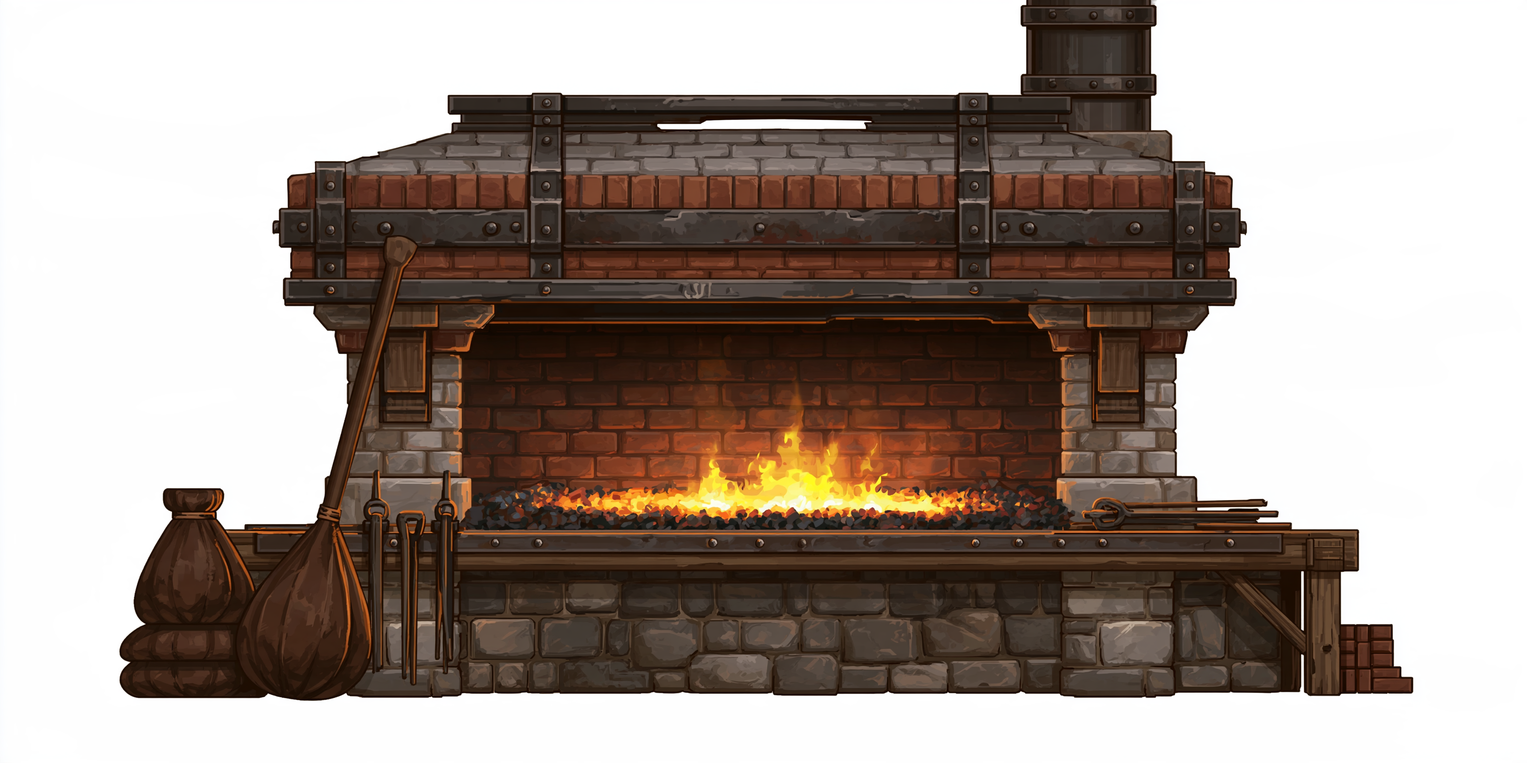
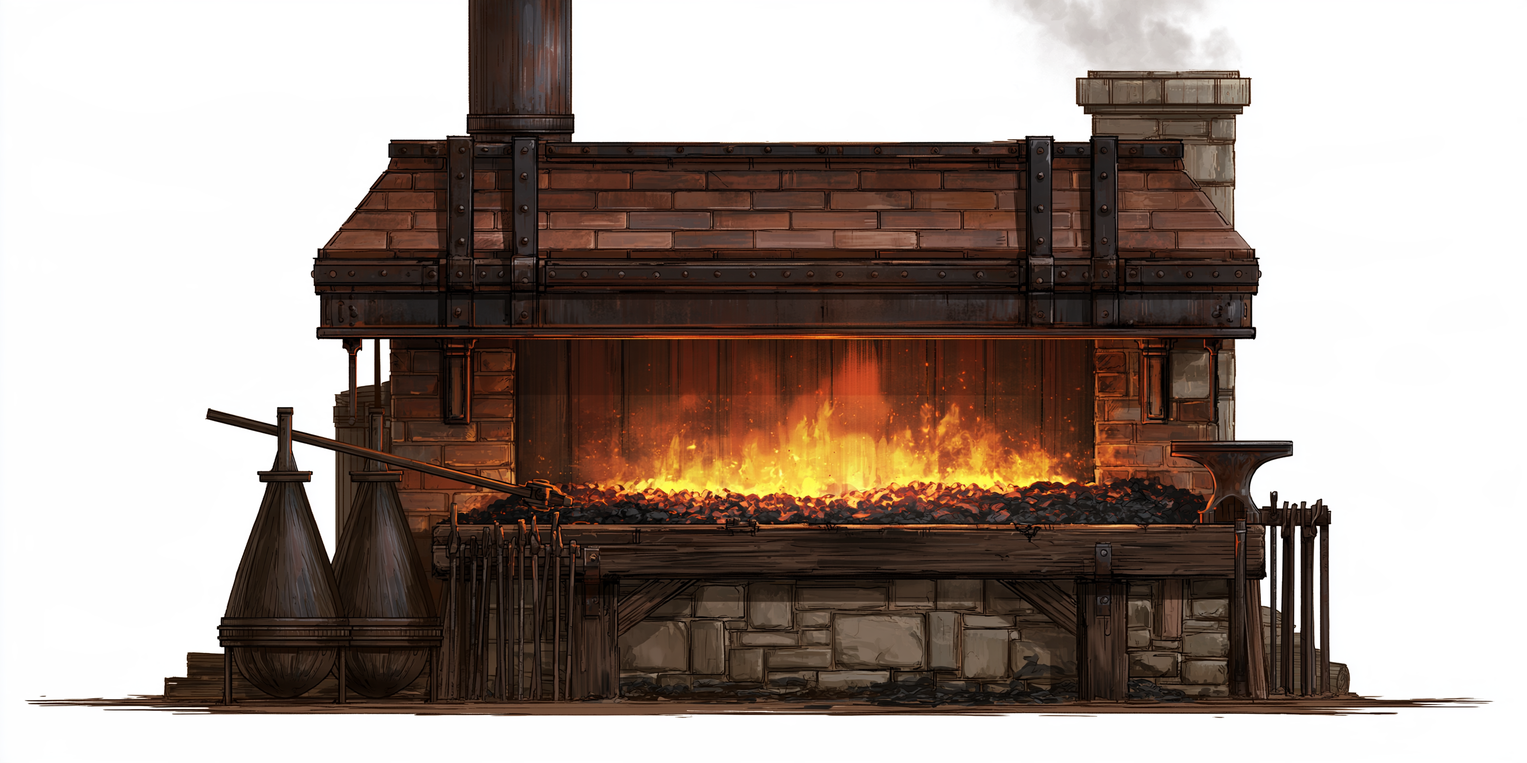
Esse Stufe 3 neu, Siemens-Ofen, Schwanzhammer-Teile (Midjourney); Balancing nachgestimmt
Alle sechs Essen in Frontalansicht. Gemalten Rauch schneidet der Import weg.
Wasserrad, Hammerbalken, Gestell und Schwungrad neu; Lager, Kopf und
Gestell-Lager misst der Import (scripts/user_machine_meta.gd).
Balancing mit Einrichtung nachgestimmt: 13,51 h, alle Epochen im Ziel.

Claude-Session: https://claude.ai/code/session_01XXDPznYwptFz8B3GCqsTxL

diff --git a/tools/art/import_user_art.py b/tools/art/import_user_art.py
@@ -248,29 +248,66 @@ def main():
         h = int(round(b.width * 500 / 1024))
         top = max(0, (b.height - h) // 2)
         b.crop((0, top, b.width, top + h)).resize((1024, 500), Image.LANCZOS).save(os.path.join(store, "feature_graphic_1024x500.png"))
-    # 21 Maschinen in Einzelteilen (weiß): Löcher (Speichen, Gitter, Lager) freistellen
+    # 21 Maschinen in Einzelteilen (weiß): Löcher (Speichen, Gitter, Lager) freistellen;
+    # Lager, Hammerkopf und Gestell-Lager werden vermessen (scripts/user_machine_meta.gd)
     mdir = os.path.join(SRC, "machines")
+    mmeta = {}
     if os.path.isdir(mdir):
         for fn in sorted(os.listdir(mdir)):
             base, ext = os.path.splitext(fn)
             if ext.lower() not in (".webp", ".png", ".jpg", ".jpeg"):
                 continue
-            a = np.asarray(Image.open(os.path.join(mdir, fn)).convert("RGB")).astype(np.float32)
+            a = np.asarray(Image.open(os.path.join(mdir, fn)).convert("RGB")).astype(np.float32).copy()
             if base == "engine_body":
                 # eingemalten Balancier entfernen (das Spiel lässt einen eigenen wippen)
                 a[:115, 680:965] = 255.0
             sat = a.max(axis=2) - a.min(axis=2)
             white = (a.min(axis=2) > 222) & (sat < 22)
             bg = flood_bg(white) | enclosed(white, 150)
-            img = to_rgba(a, bg.astype(np.float32))
+            solid = ~bg
+            lab, n = ndimage.label(solid)
+            if n > 1:
+                sizes = ndimage.sum(solid, lab, range(1, n + 1))
+                solid = np.isin(lab, [k + 1 for k, sz in enumerate(sizes) if sz >= 0.02 * sizes.max()])
+            img = to_rgba(a, (~solid).astype(np.float32))
             if base in ("water_wheel", "flywheel"):
-                # Drehteile: quadratisch um die Nabe (Bildmitte des Originals), damit sie sauber rotieren
-                c = img.width // 2
-                r = int(max(abs(np.array(img.getbbox()) - np.array([c, c, c, c]))))
-                img = img.crop((c - r, c - r, c + r, c + r))
+                # Drehteile: quadratisch um die Nabe (Mitte des Umrisses), damit sie sauber rotieren
+                x0, y0, x1, y1 = img.getbbox()
+                cx, cy = (x0 + x1) // 2, (y0 + y1) // 2
+                r = max(x1 - cx, cx - x0, y1 - cy, cy - y0)
+                img = img.crop((cx - r, cy - r, cx + r, cy + r))
                 save(img.resize((400, 400), Image.LANCZOS), "machine_" + base + ".png")
-            else:
-                save(img, "machine_" + base + ".png", max_w=700)
+                continue
+            img = save(img, "machine_" + base + ".png", max_w=700)
+            al = np.asarray(img)[..., 3] > 128
+            if base == "helve_beam":
+                cols = np.where(al.any(axis=0))[0]
+                top = np.array([np.argmax(al[:, x]) if al[:, x].any() else 0 for x in range(img.width)])
+                bot = np.array([img.height - 1 - np.argmax(al[::-1, x]) if al[:, x].any() else 0 for x in range(img.width)])
+                thick = np.where(al.any(axis=0), bot - top, 0)
+                med = np.median(thick[cols])
+                head = [x for x in cols if thick[x] > 1.6 * med and x > img.width * 0.6]
+                hx = int(np.mean(head)) if head else int(img.width * 0.92)
+                hy = int(max(bot[x] for x in head)) if head else int(img.height * 0.9)
+                body = [x for x in cols if x < img.width * 0.6]
+                axis_y = int(np.median([(top[x] + bot[x]) / 2 for x in body]))
+                boss = [x for x in body if thick[x] > 1.25 * med]
+                px = int(np.mean(boss)) if boss else int(cols[0] + img.width * 0.06)
+                mmeta["BEAM_PIVOT"] = (px, axis_y)
+                mmeta["BEAM_HEAD"] = (hx, hy)
+            elif base == "helve_frame":
+                ys = np.where(al.any(axis=1))[0]
+                ty = int(ys[0])
+                xs = np.where(al[ty:ty + max(4, img.height // 40)].any(axis=0))[0]
+                mmeta["FRAME_BEARING"] = (int(np.median(xs)), ty + 6)
+                mmeta["FRAME_HEIGHT"] = (img.width, img.height)
+    lines = ["## Automatisch erzeugt von tools/art/import_user_art.py – nicht von Hand ändern.",
+             "## Schwanzhammer: Lagerloch und Hammerkopf (Unterkante) im Balken, Lager oben auf dem Gestell, Größe des Gestells.", "",
+             "const META := {"]
+    for k, v in mmeta.items():
+        lines.append(f'\t"{k}": Vector2{v},')
+    lines.append("}")
+    open(os.path.join(ROOT, "scripts", "user_machine_meta.gd"), "w", encoding="utf-8").write("\n".join(lines) + "\n")
     derived()
     print("fertig:", sorted(os.listdir(OUT)))
 
@@ -352,6 +389,12 @@ FORGE_IDS = ["forge_clay", "forge_brick", "forge_double_bellows", "forge_coke", 
 FORGE_W = 920          # Breite im Spiel (Bühnen-Pixel)
 FORGE_CENTER_X = 420   # Mitte der Esse im Koordinatensystem der Essen-Ansicht (wie bisher)
 FORGE_TOP_Y = 118
+# Rauch über dem Schornstein, den Midjourney trotz „no smoke“ malt: Rechtecke (x0, y0, x1, y1) im Original
+# werden vor dem Freistellen weiß gefüllt (das Spiel erzeugt eigenen Rauch)
+FORGE_SMOKE = {
+    "forge_double_bellows": [(1950, 0, 3104, 140)],
+    "forge_siemens": [(1950, 0, 2230, 118), (2230, 0, 3104, 232)],
+}
 
 
 def forge_import():
@@ -363,7 +406,9 @@ def forge_import():
         path = next((os.path.join(fdir, fid + e) for e in (".png", ".webp", ".jpg") if os.path.exists(os.path.join(fdir, fid + e))), None)
         if path is None:
             continue
-        a = np.asarray(Image.open(path).convert("RGB")).astype(np.float32)
+        a = np.asarray(Image.open(path).convert("RGB")).astype(np.float32).copy()
+        for x0, y0, x1, y1 in FORGE_SMOKE.get(fid, []):
+            a[y0:y1, x0:x1] = 255.0
         sat = a.max(axis=2) - a.min(axis=2)
         white = (a.min(axis=2) > 215) & (sat < 28)
         bg = flood_bg(white) | enclosed(white, 4000)

diff --git a/tools/content/gen_prompt_book.py b/tools/content/gen_prompt_book.py
@@ -84,6 +84,10 @@ LESSONS = [
      "Doppelblasebalg ausdrücklich: „two identical teardrop bellows stacked one above the other, one lever“; Glutbett „wide, about two thirds of the width“; Glutbett, Schornstein und Ursprung misst jetzt der Import selbst"),
     ("20.11.", "Hämmer, Amboss (Raw)", "Formen und Ansicht genau richtig, aber fotorealistische 3D-Renderings statt handgemalt mit Tuschekontur – der Raw-Modus überstimmt die Stilangabe; Amboss mit Horn nach links",
      "Raw nur noch, wenn die Form nicht stimmt; sonst Standard mit Stil-Referenz (ein Hintergrund oder eine Esse); `--no photo, 3d render`; Horn-Richtung gleicht der Import aus (spiegeln); Griff, Bahn und Ambossbahn misst der Import selbst"),
+    ("20.11.", "Essen", "Esse Stufe 3 (neu) und Siemens-Ofen: Inhalt gelungen (zwei Bälge mit Hebel bzw. genieteter Gasofen), aber trotz `--no smoke` Rauch über dem Schornstein",
+     "„the chimney top is clean (no smoke)“; den Rest schneidet der Import weg (`FORGE_SMOKE`), das Spiel erzeugt eigenen Rauch"),
+    ("20.11.", "Maschinenteile", "neuer Hammerbalken mit Lager am Ende (statt bei einem Drittel), neues Gestell mit mittigem Lagerbock",
+     "historisch richtig (Brust-Schwanzhammer); Lager, Hammerkopf und Gestell-Lager misst jetzt der Import, das Spiel skaliert passend – Prompt bleibt"),
 ]
 GLOBAL_NEG = ["text", "numbers", "watermark"]
 ISOLATED_NEG = ["border", "shadow", "photo", "3d render"]
@@ -277,7 +281,7 @@ BELLOWS = "a teardrop-shaped leather bellows with wooden boards on a stand (no c
 
 FORGE_TAIL = ("front view from slightly above (no perspective), wide glowing coal bed, a flat band across about two thirds of the width, "
               "hood and chimney centred and fully visible, level bottom edge (no floor), hand-painted 2D game art, dark ink outlines, "
-              "nothing in front (no smoke, no flames, no people), isolated on pure flat white background, wide 2:1")
+              "nothing in front, the chimney top is clean (no smoke, no flames, no people), isolated on pure flat white background, wide 2:1")
 FORGES = [
     ("forge_clay", "Lehm-Esse mit Handblasebalg (Stufe 1, Epoche 1)", "a small rustic early-18th-century village forge, " + OPEN_HEARTH + ", built of clay and rough fieldstones, a simple clay-plastered hood with a short chimney, on the left " + BELLOWS + ", orange glowing charcoal fire"),
     ("forge_brick", "Ziegel-Esse (Stufe 2, Epoche 2)", "a smith's forge of the 1720s, " + OPEN_HEARTH + ", built of red brick bound with iron straps, a brick hood and a square brick chimney, on the left " + BELLOWS + ", bright orange coal fire"),

diff --git a/assets/source/user_art/PROMPTS_Hochformat.md b/assets/source/user_art/PROMPTS_Hochformat.md
@@ -15,18 +15,18 @@ Vollständige Liste aller Grafiken mit Prompt und Status. Erzeugt mit `python to
 
 | Status | Anzahl |
 |---|---|
-| ✅ gut (Midjourney) | 19 |
-| 🟠 von Midjourney vorhanden – sollte noch verändert werden | 1 |
-| 🟡 von Gemini vorhanden – durch Midjourney ersetzen | 28 |
-| ⬜ noch nicht vorhanden | 127 |
+| ✅ gut (Midjourney) | 25 |
+| 🟠 von Midjourney vorhanden – sollte noch verändert werden | 0 |
+| 🟡 von Gemini vorhanden – durch Midjourney ersetzen | 24 |
+| ⬜ noch nicht vorhanden | 126 |
 | ⬜ noch nicht vorhanden (optional) | 62 |
 
 | Bereich | ✅ gut | 🟠 ändern | 🟡 Gemini | ⬜ fehlt | ⬜ optional |
 |---|---|---|---|---|---|
 | A · Werkstatt-Hintergründe | 10 | 0 | 0 | 0 | 0 |
-| B · Essen | 4 | 1 | 0 | 1 | 0 |
+| B · Essen | 6 | 0 | 0 | 0 | 0 |
 | C · Amboss und Hämmer | 5 | 0 | 0 | 0 | 0 |
-| D · Maschinen | 0 | 0 | 7 | 3 | 4 |
+| D · Maschinen | 4 | 0 | 3 | 3 | 4 |
 | E · Werkstücke | 0 | 0 | 9 | 72 | 0 |
 | F · Kundenporträts | 0 | 0 | 0 | 0 | 54 |
 | G · Oberfläche, Symbole, Store | 0 | 0 | 12 | 1 | 4 |
@@ -68,6 +68,8 @@ Jede Erkenntnis ist in **alle** betroffenen Prompts eingebaut (gemeinsame Bauste
 | 20.11. | Hintergründe | Lieferung Epoche 3–10: Stimmung und Inhalt gut; aber (a) alle eher dunkel, (b) Epoche 5 und 9 mit gemaltem Feuer in der Wandmitte, (c) Epoche 3 und 7 mit zweitem, großem Aussichtsfenster am rechten Rand (im Hochformat angeschnitten), (d) Kante 56–84 % | „Evening but well lit“; `--no fireplace, flames`; „Through the small window: …“ statt „Window view“, damit die Aussicht im kleinen Fenster links landet; zu tiefe Kante gleicht der Import aus (oben Decke abschneiden, `BG_TOP_CROP`) |
 | 20.11. | Essen | erste Frontalansichten (Stufe 1–5): Aufbau, Blasebalg links und offenes Glutbett gelungen; Stufe 3 zeigt nur einen Blasebalg und einen Sack statt zwei übereinanderliegender Bälge; Stufe 1 hat ein schmales Glutbett (~25 % der Breite) | Doppelblasebalg ausdrücklich: „two identical teardrop bellows stacked one above the other, one lever“; Glutbett „wide, about two thirds of the width“; Glutbett, Schornstein und Ursprung misst jetzt der Import selbst |
 | 20.11. | Hämmer, Amboss (Raw) | Formen und Ansicht genau richtig, aber fotorealistische 3D-Renderings statt handgemalt mit Tuschekontur – der Raw-Modus überstimmt die Stilangabe; Amboss mit Horn nach links | Raw nur noch, wenn die Form nicht stimmt; sonst Standard mit Stil-Referenz (ein Hintergrund oder eine Esse); `--no photo, 3d render`; Horn-Richtung gleicht der Import aus (spiegeln); Griff, Bahn und Ambossbahn misst der Import selbst |
+| 20.11. | Essen | Esse Stufe 3 (neu) und Siemens-Ofen: Inhalt gelungen (zwei Bälge mit Hebel bzw. genieteter Gasofen), aber trotz `--no smoke` Rauch über dem Schornstein | „the chimney top is clean (no smoke)“; den Rest schneidet der Import weg (`FORGE_SMOKE`), das Spiel erzeugt eigenen Rauch |
+| 20.11. | Maschinenteile | neuer Hammerbalken mit Lager am Ende (statt bei einem Drittel), neues Gestell mit mittigem Lagerbock | historisch richtig (Brust-Schwanzhammer); Lager, Hammerkopf und Gestell-Lager misst jetzt der Import, das Spiel skaliert passend – Prompt bleibt |
 
 ## Midjourney-Einstellungen (Version 8.2)
 
@@ -184,44 +186,45 @@ background_10 — Square 2D game background, hand-painted, dark ink outlines. Ev
 Frontal und symmetrisch, leicht von oben: Das Glutbett ist ein waagerechter Streifen über etwa 60 % der Breite, damit die Werkstücke gleichmäßig nebeneinander liegen. Blasebalg bzw. Gebläse immer links. Format 2:1, weißer Grund. Originale nach `assets/source/user_art/forges/<id>.png` – Glutbett, Schornstein und Lage misst der Import selbst.
 
 **forge_clay** – Lehm-Esse mit Handblasebalg (Stufe 1, Epoche 1) · ✅ gut (Midjourney)  
-Regler: **Landscape 2:1** · 99 Wörter  
+Regler: **Landscape 2:1** · 104 Wörter  
 *20.11.: Frontalansicht, offener Herdtisch mit Lehmhaube, Blasebalg links auf Bank. Glutbett schmal (~25 % der Breite) – für einen Platz ausreichend.*
 ```
-forge_clay — 2D game asset, a small rustic early-18th-century village forge, open waist-high hearth table, coals lying openly on top, hood above with a clear gap, built of clay and rough fieldstones, a simple clay-plastered hood with a short chimney, on the left a teardrop-shaped leather bellows with wooden boards on a stand, orange glowing charcoal fire, front view from slightly above, wide glowing coal bed, a flat band across about two thirds of the width, hood and chimney centred and fully visible, level bottom edge, hand-painted 2D game art, dark ink outlines, nothing in front, on pure flat white background --ar 2:1 --no oven, dome, arch over the fire, cannon, perspective, floor, smoke, flames, people, text, numbers, watermark, border, shadow, photo, 3d render
+forge_clay — 2D game asset, a small rustic early-18th-century village forge, open waist-high hearth table, coals lying openly on top, hood above with a clear gap, built of clay and rough fieldstones, a simple clay-plastered hood with a short chimney, on the left a teardrop-shaped leather bellows with wooden boards on a stand, orange glowing charcoal fire, front view from slightly above, wide glowing coal bed, a flat band across about two thirds of the width, hood and chimney centred and fully visible, level bottom edge, hand-painted 2D game art, dark ink outlines, nothing in front, the chimney top is clean, on pure flat white background --ar 2:1 --no oven, dome, arch over the fire, cannon, perspective, floor, smoke, flames, people, text, numbers, watermark, border, shadow, photo, 3d render
 ```
 
 **forge_brick** – Ziegel-Esse (Stufe 2, Epoche 2) · ✅ gut (Midjourney)  
-Regler: **Landscape 2:1** · 101 Wörter  
+Regler: **Landscape 2:1** · 106 Wörter  
 *20.11.: Frontalansicht, Ziegelherd mit Eisenbändern, Schieferdach-Haube, Schornstein rechts; Blasebalg links steht senkrecht statt waagerecht – unkritisch.*
 ```
-forge_brick — 2D game asset, a smith's forge of the 1720s, open waist-high hearth table, coals lying openly on top, hood above with a clear gap, built of red brick bound with iron straps, a brick hood and a square brick chimney, on the left a teardrop-shaped leather bellows with wooden boards on a stand, bright orange coal fire, front view from slightly above, wide glowing coal bed, a flat band across about two thirds of the width, hood and chimney centred and fully visible, level bottom edge, hand-painted 2D game art, dark ink outlines, nothing in front, on pure flat white background --ar 2:1 --no oven, dome, arch over the fire, cannon, perspective, floor, smoke, flames, people, text, numbers, watermark, border, shadow, photo, 3d render
+forge_brick — 2D game asset, a smith's forge of the 1720s, open waist-high hearth table, coals lying openly on top, hood above with a clear gap, built of red brick bound with iron straps, a brick hood and a square brick chimney, on the left a teardrop-shaped leather bellows with wooden boards on a stand, bright orange coal fire, front view from slightly above, wide glowing coal bed, a flat band across about two thirds of the width, hood and chimney centred and fully visible, level bottom edge, hand-painted 2D game art, dark ink outlines, nothing in front, the chimney top is clean, on pure flat white background --ar 2:1 --no oven, dome, arch over the fire, cannon, perspective, floor, smoke, flames, people, text, numbers, watermark, border, shadow, photo, 3d render
 ```
 
-**forge_double_bellows** – Esse mit Doppelblasebalg (Stufe 3, Epoche 3) · 🟠 von Midjourney vorhanden – sollte noch verändert werden  
-Regler: **Landscape 2:1** · 103 Wörter  
-*20.11.: Esse selbst gut (Ziegel/Stein, Eisenbänder), aber links nur ein Blasebalg und ein Sack statt zweier übereinanderliegender Bälge mit Hebel.*
+**forge_double_bellows** – Esse mit Doppelblasebalg (Stufe 3, Epoche 3) · ✅ gut (Midjourney)  
+Regler: **Landscape 2:1** · 108 Wörter  
+*20.11.: neu: zwei tropfenförmige Bälge mit Hebel links, Ziegel/Stein mit Eisenbändern, hohes Rohr und Ziegelschornstein. Gemalten Rauch schneidet der Import weg.*
 ```
-forge_double_bellows — 2D game asset, a large smith's forge of the 1740s, open waist-high hearth table, coals lying openly on top, hood above with a clear gap, built of brick and stone, a wide brick hood bound with iron bands, on the left two identical teardrop bellows stacked one above the other, worked by one long lever, hot yellow-orange coal fire, front view from slightly above, wide glowing coal bed, a flat band across about two thirds of the width, hood and chimney centred and fully visible, level bottom edge, hand-painted 2D game art, dark ink outlines, nothing in front, on pure flat white background --ar 2:1 --no oven, dome, arch over the fire, cannon, sack, perspective, floor, smoke, flames, people, text, numbers, watermark, border, shadow, photo, 3d render
+forge_double_bellows — 2D game asset, a large smith's forge of the 1740s, open waist-high hearth table, coals lying openly on top, hood above with a clear gap, built of brick and stone, a wide brick hood bound with iron bands, on the left two identical teardrop bellows stacked one above the other, worked by one long lever, hot yellow-orange coal fire, front view from slightly above, wide glowing coal bed, a flat band across about two thirds of the width, hood and chimney centred and fully visible, level bottom edge, hand-painted 2D game art, dark ink outlines, nothing in front, the chimney top is clean, on pure flat white background --ar 2:1 --no oven, dome, arch over the fire, cannon, sack, perspective, floor, smoke, flames, people, text, numbers, watermark, border, shadow, photo, 3d render
 ```
 
 **forge_coke** – Koks-Esse mit Zylindergebläse (Stufe 4, Epoche 5) · ✅ gut (Midjourney)  
-Regler: **Landscape 2:1** · 102 Wörter  
+Regler: **Landscape 2:1** · 107 Wörter  
 *20.11.: Frontalansicht, genietete Eisenhaube, Gebläsezylinder links mit Luftrohr, Rohrschornstein rechts; Flammen etwas hoch – im Spiel unauffällig.*
 ```
-forge_coke — 2D game asset, a long late-18th-century coke-fired smith's forge, open waist-high hearth table, coals lying openly on top, hood above with a clear gap, built of cast-iron plates and firebrick, a riveted iron hood and a round iron chimney, on the left an upright cast-iron blowing cylinder with an air pipe into the hearth, brilliant yellow-white coke fire, front view from slightly above, wide glowing coal bed, a flat band across about two thirds of the width, hood and chimney centred and fully visible, level bottom edge, hand-painted 2D game art, dark ink outlines, nothing in front, on pure flat white background --ar 2:1 --no oven, dome, arch over the fire, perspective, floor, smoke, flames, people, text, numbers, watermark, border, shadow, photo, 3d render
+forge_coke — 2D game asset, a long late-18th-century coke-fired smith's forge, open waist-high hearth table, coals lying openly on top, hood above with a clear gap, built of cast-iron plates and firebrick, a riveted iron hood and a round iron chimney, on the left an upright cast-iron blowing cylinder with an air pipe into the hearth, brilliant yellow-white coke fire, front view from slightly above, wide glowing coal bed, a flat band across about two thirds of the width, hood and chimney centred and fully visible, level bottom edge, hand-painted 2D game art, dark ink outlines, nothing in front, the chimney top is clean, on pure flat white background --ar 2:1 --no oven, dome, arch over the fire, perspective, floor, smoke, flames, people, text, numbers, watermark, border, shadow, photo, 3d render
 ```
 
 **forge_welding_furnace** – Schweißofen (Stufe 5, Epoche 8) · ✅ gut (Midjourney)  
-Regler: **Landscape 2:1** · 81 Wörter  
+Regler: **Landscape 2:1** · 86 Wörter  
 *20.11.: niedriger Ziegelbogen über langem Glutbett, Schornstein rechts – genau wie gewünscht.*
 ```
-forge_welding_furnace — 2D game asset, a long 1830s coal-fired welding furnace: a low hearth of firebrick and cast-iron plates bound by iron tie bars, a low brick arch over a long white-hot coal bed, a short square brick chimney, front view from slightly above, wide glowing coal bed, a flat band across about two thirds of the width, hood and chimney centred and fully visible, level bottom edge, hand-painted 2D game art, dark ink outlines, nothing in front, on pure flat white background --ar 2:1 --no perspective, floor, smoke, flames, people, text, numbers, watermark, border, shadow, photo, 3d render
+forge_welding_furnace — 2D game asset, a long 1830s coal-fired welding furnace: a low hearth of firebrick and cast-iron plates bound by iron tie bars, a low brick arch over a long white-hot coal bed, a short square brick chimney, front view from slightly above, wide glowing coal bed, a flat band across about two thirds of the width, hood and chimney centred and fully visible, level bottom edge, hand-painted 2D game art, dark ink outlines, nothing in front, the chimney top is clean, on pure flat white background --ar 2:1 --no perspective, floor, smoke, flames, people, text, numbers, watermark, border, shadow, photo, 3d render
 ```
 
-**forge_siemens** – Siemens-Gasofen (Stufe 6, Epoche 10) · ⬜ noch nicht vorhanden  
-Regler: **Landscape 2:1** · 89 Wörter
+**forge_siemens** – Siemens-Gasofen (Stufe 6, Epoche 10) · ✅ gut (Midjourney)  
+Regler: **Landscape 2:1** · 94 Wörter  
+*20.11.: genieteter Eisenkörper mit Ankerstäben, weißglühende Arbeitsöffnung, Gasleitungen mit Ventilen beidseitig, Schornsteinstutzen. Gemalten Rauch schneidet der Import weg.*
 ```
-forge_siemens — 2D game asset, a massive 1870s Siemens regenerative gas furnace: a rectangular firebrick body clad with riveted iron plates and vertical iron buckstays, a wide open working front showing a blinding white-hot hearth, gas pipes with valves at both sides, a squat iron chimney stub, front view from slightly above, wide glowing coal bed, a flat band across about two thirds of the width, hood and chimney centred and fully visible, level bottom edge, hand-painted 2D game art, dark ink outlines, nothing in front, on pure flat white background --ar 2:1 --no perspective, floor, smoke, flames, people, text, numbers, watermark, border, shadow, photo, 3d render
+forge_siemens — 2D game asset, a massive 1870s Siemens regenerative gas furnace: a rectangular firebrick body clad with riveted iron plates and vertical iron buckstays, a wide open working front showing a blinding white-hot hearth, gas pipes with valves at both sides, a squat iron chimney stub, front view from slightly above, wide glowing coal bed, a flat band across about two thirds of the width, hood and chimney centred and fully visible, level bottom edge, hand-painted 2D game art, dark ink outlines, nothing in front, the chimney top is clean, on pure flat white background --ar 2:1 --no perspective, floor, smoke, flames, people, text, numbers, watermark, border, shadow, photo, 3d render
 ```
 
 ## C · Amboss und Hämmer
@@ -267,26 +270,30 @@ hammer_crucible — 2D game asset, a high-quality late-18th-century crucible ste
 
 Drehteile genau von vorn und kreisrund, Mittelpunkt = Bildmitte; bewegliche Teile einzeln.
 
-**water_wheel** – Wasserrad (Wasser-Schwanzhammer, Epoche 5) · 🟡 von Gemini vorhanden – durch Midjourney ersetzen  
-Regler: **Square 1:1** · 56 Wörter
+**water_wheel** – Wasserrad (Wasser-Schwanzhammer, Epoche 5) · ✅ gut (Midjourney)  
+Regler: **Square 1:1** · 56 Wörter  
+*20.11.: unterschlächtiges Wasserrad, acht Speichen, Nabe mittig – dreht sauber.*
 ```
 water_wheel — 2D game asset, a single wooden undershot water wheel seen exactly from the side so that it is a perfect circle, eight straight spokes, wooden paddles all around the rim, iron bands and an iron axle hub exactly in the centre of the image, hand-painted 2D game art, dark ink outlines, on pure flat white background --ar 1:1 --no water, frame, stand, text, numbers, watermark, border, shadow, photo, 3d render
 ```
 
-**helve_beam** – Hammerbalken mit Hammerkopf (Epoche 5–8) · 🟡 von Gemini vorhanden – durch Midjourney ersetzen  
-Regler: **Square 1:1** · 64 Wörter
+**helve_beam** – Hammerbalken mit Hammerkopf (Epoche 5–8) · ✅ gut (Midjourney)  
+Regler: **Square 1:1** · 64 Wörter  
+*20.11.: Lager am Balkenende statt bei einem Drittel – entspricht dem englischen Brust-Schwanzhammer (belly helve); Lager und Kopf misst der Import.*
 ```
 helve_beam — 2D game asset, a single helve-hammer beam seen exactly from the side: a long heavy oak beam lying horizontally, bound with iron hoops, a round iron pivot boss with a hole at one third from the left end, a heavy forged iron hammer head fixed at the right end pointing straight down, hand-painted 2D game art, dark ink outlines, on pure flat white background --ar 1:1 --no frame, posts, anvil, text, numbers, watermark, border, shadow, photo, 3d render
 ```
 
-**helve_frame** – Gestell mit Daumenwelle · 🟡 von Gemini vorhanden – durch Midjourney ersetzen  
-Regler: **Square 1:1** · 61 Wörter
+**helve_frame** – Gestell mit Daumenwelle · ✅ gut (Midjourney)  
+Regler: **Square 1:1** · 61 Wörter  
+*20.11.: Eichengestell mit mittigem Lagerbock und Daumenwelle unten; Lager oben misst der Import.*
 ```
 helve_frame — 2D game asset, the wooden support frame of an 18th-century helve hammer seen exactly from the side: two heavy upright oak posts joined by cross beams, an iron bearing on top of the posts for a pivot, and a horizontal cam shaft with four iron cams at the bottom, hand-painted 2D game art, dark ink outlines, on pure flat white background --ar 1:1 --no hammer beam, water wheel, anvil, text, numbers, watermark, border, shadow, photo, 3d render
 ```
 
-**flywheel** – Schwungrad (Dampf-Schwanzhammer, Epoche 6–8) · 🟡 von Gemini vorhanden – durch Midjourney ersetzen  
-Regler: **Square 1:1** · 54 Wörter
+**flywheel** – Schwungrad (Dampf-Schwanzhammer, Epoche 6–8) · ✅ gut (Midjourney)  
+Regler: **Square 1:1** · 54 Wörter  
+*20.11.: gusseisernes Schwungrad mit acht geraden Speichen (statt sechs gebogenen) – unkritisch.*
 ```
 flywheel — 2D game asset, a single cast-iron flywheel of an 18th-century beam engine seen exactly from the front so that it is a perfect circle, six gently curved spokes, a heavy rim, the hub exactly in the centre of the image, hand-painted 2D game art, dark ink outlines, dark iron, on pure flat white background --ar 1:1 --no frame, shaft stand, text, numbers, watermark, border, shadow, photo, 3d render
 ```

diff --git a/Status.md b/Status.md
@@ -41,12 +41,13 @@ wenn alles fertig ist.
 | Bereich | gut (MJ) | MJ ändern | Gemini | fehlt |
 |---|---|---|---|---|
 | A Hintergründe (1:1) | **10 (alle)** | – | – | – |
-| B Essen (frontal) | 4 (Stufe 1, 2, 4, 5) | 1 (Stufe 3: Doppelbalg fehlt) | – | 1 (Stufe 6) |
+| B Essen (frontal) | **6 (alle)** | – | – | – |
 | C Amboss, Hämmer | 5 (fotorealistisch) | – | – | – |
-| D Maschinenteile | – | – | 7 | 7 (u. a. Dampfhammer) |
+| D Maschinenteile | 4 (Wasserrad, Balken, Gestell, Schwungrad) | – | 3 | 3 + 4 optional (u. a. Dampfhammer) |
 | E Werkstücke | – | – | 9 | 72 (Epochen 2–10) |
 | F Kundenporträts (optional) | – | – | – | 54 |
 | G Oberfläche, Store | – | – | 12 | 5 |
+| H Werkstatt-Einrichtung | – | – | – | 50 (Platzhalter im Spiel) |
 
 Alle Gemini-Bilder sollen später durch Midjourney ersetzt werden.
 
@@ -82,7 +83,7 @@ Alle Gemini-Bilder sollen später durch Midjourney ersetzt werden.
 
 ## Offen / nächste Schritte
 
-1. Midjourney-Bilder einbinden, sobald sie kommen: Esse Stufe 3 neu (Doppelbalg), Siemens-Ofen (Stufe 6), Dampfhammer-Teile, Werkstücke Epochen 2–10, Löschtrog,
+1. Midjourney-Bilder einbinden, sobald sie kommen: Dampfhammer-Teile, Werkstücke Epochen 2–10, Löschtrog,
    optional Kundenporträts.
 2. Danach die Gemini-Bilder schrittweise durch Midjourney ersetzen.
 3. Nach jeder Bildänderung: Unit-Tests und grafischer Spieltest (Auflösung 1080×1920).
@@ -140,8 +141,14 @@ Alle Gemini-Bilder sollen später durch Midjourney ersetzt werden.
 - 20.11.: **Werkstatt-Einrichtung (Aufbau Teil 1)** eingebaut: Daten, Wirkungen in Simulation/Abrechnung/Auftragsbuch,
   Laden-Abschnitt, Darstellung mit Platzhaltern, Speichern, Prämie, Statistik, Hinweis, Klang; 183 neue Prüfungen; Spieltest
   kauft Einrichtung in Ep. 3/5–10. Balancing: mit Einrichtung 12,98 h statt 13,58 h (Vorteile beschleunigen) → Nachstimmen
-  der Epochen mit `tune_balance.py` läuft. Prompt-Heft: Bereich H (50 Einrichtungsbilder), Reihenfolge und Regeln aktualisiert;
+  der Epochen mit `tune_balance.py`. Prompt-Heft: Bereich H (50 Einrichtungsbilder), Reihenfolge und Regeln aktualisiert;
   Import für `assets/source/user_art/furnishings/`.
+- 20.11.: **Balancing nachgestimmt** (`tune_balance.py`, 8 Iterationen): mit Einrichtung 13,51 h, Minuten je Epoche
+  12.6/23.8/55.3/82.9/131.0/157.0/77.9/83.8/90.0/96.0 (`fp_start`/`rate_per_fp` angepasst, Löhne unverändert).
+- 20.11.: **Esse Stufe 3 neu und Siemens-Ofen** (alle sechs Essen ✅) sowie **Wasserrad, Hammerbalken, Gestell, Schwungrad**
+  (Midjourney) eingebaut. Gemalten Rauch schneidet der Import weg (`FORGE_SMOKE`). Schwanzhammer: Lager, Kopf und Gestell-
+  Lager misst der Import (`scripts/user_machine_meta.gd`), die Maschinenansicht skaliert passend. Tests grün (1841/0),
+  Spieltest 0 Probleme.
 
 ## Prüfen
 
